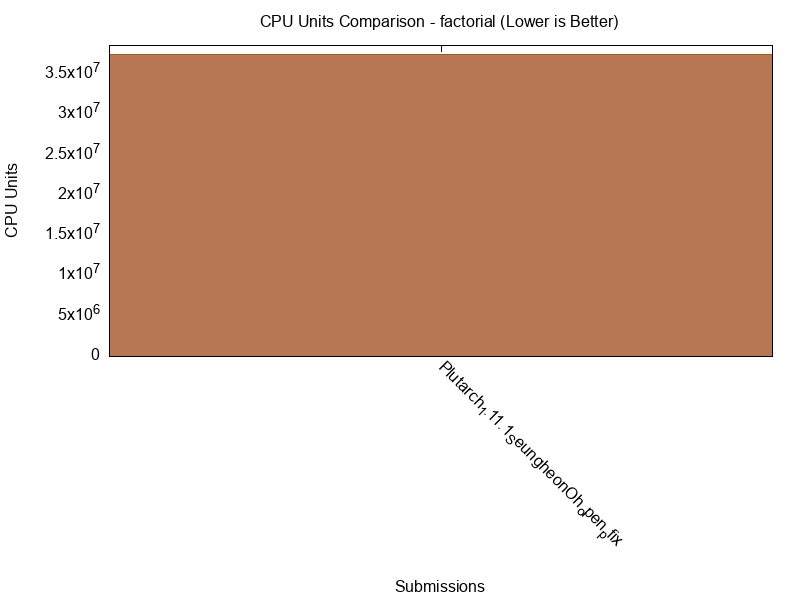
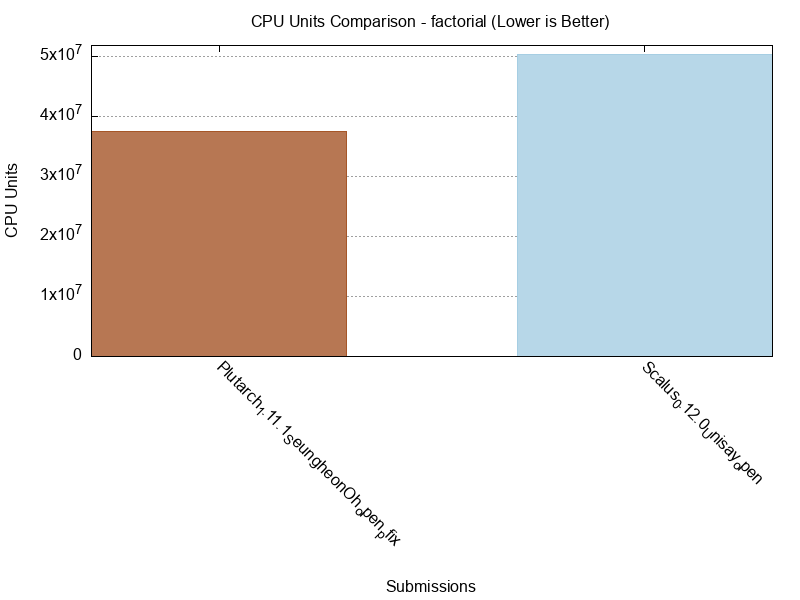
docs(reports): update HTML reports with Scalus factorial submissions
Update HTML performance reports to include the newly added Scalus factorial submissions. The factorial benchmark now shows 2 submissions each in base and open modes.

Updated report pages reflect the new submissions with regenerated charts and indices across all benchmark reports.

diff --git a/report/base/index.html b/report/base/index.html
@@ -294,7 +294,7 @@
     
 
     <div class="timestamp">
-        Generated on: 2025-10-07 15:24:50 CEST
+        Generated on: 2025-10-07 15:44:42 CEST
     </div>
     
     <!-- Benchmark Summary Table -->
@@ -315,7 +315,7 @@
                     </div>
                     <div class="count">
                         
-                            (2 submissions)
+                            (4 submissions)
                         
                     </div>
                 </div>
@@ -376,6 +376,48 @@
                                 </td>
                                 <td class="numeric script-value">40</td>
                                 <td class="numeric term-value">33</td>
+                            </tr>
+                            
+                            <tr data-cpu="44601975" data-memory="184790" data-script="58" data-term="57">
+                                <td>Scalus</td>
+                                <td>0.12.0</td>
+                                <td>Unisay</td>
+                                <td>2025-10-07</td>
+                                <td class="numeric">
+                                    <span class="tooltip">
+                                        <span class="cpu-value">44.60M</span>
+                                        <span class="tooltiptext">44601975</span>
+                                    </span>
+                                </td>
+                                <td class="numeric">
+                                    <span class="tooltip">
+                                        <span class="memory-value">184.79K</span>
+                                        <span class="tooltiptext">184790</span>
+                                    </span>
+                                </td>
+                                <td class="numeric script-value">58</td>
+                                <td class="numeric term-value">57</td>
+                            </tr>
+                            
+                            <tr data-cpu="50249063" data-memory="214106" data-script="81" data-term="82">
+                                <td>Scalus</td>
+                                <td>0.12.0</td>
+                                <td>Unisay</td>
+                                <td>2025-10-07</td>
+                                <td class="numeric">
+                                    <span class="tooltip">
+                                        <span class="cpu-value">50.25M</span>
+                                        <span class="tooltiptext">50249063</span>
+                                    </span>
+                                </td>
+                                <td class="numeric">
+                                    <span class="tooltip">
+                                        <span class="memory-value">214.11K</span>
+                                        <span class="tooltiptext">214106</span>
+                                    </span>
+                                </td>
+                                <td class="numeric script-value">81</td>
+                                <td class="numeric term-value">82</td>
                             </tr>
                             
                         </tbody>

diff --git a/report/open/index.html b/report/open/index.html
@@ -294,7 +294,7 @@
     
 
     <div class="timestamp">
-        Generated on: 2025-10-07 15:25:02 CEST
+        Generated on: 2025-10-07 15:44:56 CEST
     </div>
     
     <!-- Benchmark Summary Table -->
@@ -315,7 +315,7 @@
                     </div>
                     <div class="count">
                         
-                            (2 submissions)
+                            (4 submissions)
                         
                     </div>
                 </div>
@@ -376,6 +376,48 @@
                                 </td>
                                 <td class="numeric script-value">40</td>
                                 <td class="numeric term-value">33</td>
+                            </tr>
+                            
+                            <tr data-cpu="44601975" data-memory="184790" data-script="58" data-term="57">
+                                <td>Scalus</td>
+                                <td>0.12.0</td>
+                                <td>Unisay</td>
+                                <td>2025-10-07</td>
+                                <td class="numeric">
+                                    <span class="tooltip">
+                                        <span class="cpu-value">44.60M</span>
+                                        <span class="tooltiptext">44601975</span>
+                                    </span>
+                                </td>
+                                <td class="numeric">
+                                    <span class="tooltip">
+                                        <span class="memory-value">184.79K</span>
+                                        <span class="tooltiptext">184790</span>
+                                    </span>
+                                </td>
+                                <td class="numeric script-value">58</td>
+                                <td class="numeric term-value">57</td>
+                            </tr>
+                            
+                            <tr data-cpu="50249063" data-memory="214106" data-script="81" data-term="82">
+                                <td>Scalus</td>
+                                <td>0.12.0</td>
+                                <td>Unisay</td>
+                                <td>2025-10-07</td>
+                                <td class="numeric">
+                                    <span class="tooltip">
+                                        <span class="cpu-value">50.25M</span>
+                                        <span class="tooltiptext">50249063</span>
+                                    </span>
+                                </td>
+                                <td class="numeric">
+                                    <span class="tooltip">
+                                        <span class="memory-value">214.11K</span>
+                                        <span class="tooltiptext">214106</span>
+                                    </span>
+                                </td>
+                                <td class="numeric script-value">81</td>
+                                <td class="numeric term-value">82</td>
                             </tr>
                             
                         </tbody>

diff --git a/report/open/benchmarks/factorial.html b/report/open/benchmarks/factorial.html
@@ -206,7 +206,7 @@
     </div>
 
     <div class="timestamp">
-        Generated on: 2025-10-07 15:24:54 CEST
+        Generated on: 2025-10-07 15:44:46 CEST
     </div>
     
     <div class="benchmark-section">
@@ -260,6 +260,18 @@
                     <td class="numeric">33</td>
                     <td><a href="https://github.com/IntersectMBO/UPLC-CAPE/blob/main/submissions/factorial/Plutarch_1.11.1_SeungheonOh_open_pfix/source/README.md" target="_blank" rel="noopener">📁</a></td>
                     <td><a href="https://github.com/IntersectMBO/UPLC-CAPE/blob/main/submissions/factorial/Plutarch_1.11.1_SeungheonOh_open_pfix/factorial.uplc" target="_blank" rel="noopener">🔗</a></td>
+                </tr>
+                <tr>
+                    <td>2025-10-07T13:43:55Z</td>
+                    <td>Scalus</td>
+                    <td>0.12.0</td>
+                    <td>Unisay</td>
+                    <td class="numeric">50249063</td>
+                    <td class="numeric">214106</td>
+                    <td class="numeric">81</td>
+                    <td class="numeric">82</td>
+                    <td><a href="https://github.com/IntersectMBO/UPLC-CAPE/blob/main/submissions/factorial/Scalus_0.12.0_Unisay_open/source/README.md" target="_blank" rel="noopener">📁</a></td>
+                    <td><a href="https://github.com/IntersectMBO/UPLC-CAPE/blob/main/submissions/factorial/Scalus_0.12.0_Unisay_open/factorial.uplc" target="_blank" rel="noopener">🔗</a></td>
                 </tr>
             </tbody>
         </table>

diff --git a/report/base/benchmarks/factorial.html b/report/base/benchmarks/factorial.html
@@ -206,7 +206,7 @@
     </div>
 
     <div class="timestamp">
-        Generated on: 2025-10-07 15:24:45 CEST
+        Generated on: 2025-10-07 15:44:35 CEST
     </div>
     
     <div class="benchmark-section">
@@ -260,6 +260,18 @@
                     <td class="numeric">27</td>
                     <td><a href="https://github.com/IntersectMBO/UPLC-CAPE/blob/main/submissions/factorial/Plinth_1.53.0.0_Unisay_base/source/README.md" target="_blank" rel="noopener">📁</a></td>
                     <td><a href="https://github.com/IntersectMBO/UPLC-CAPE/blob/main/submissions/factorial/Plinth_1.53.0.0_Unisay_base/factorial.uplc" target="_blank" rel="noopener">🔗</a></td>
+                </tr>
+                <tr>
+                    <td>2025-10-07T13:43:42Z</td>
+                    <td>Scalus</td>
+                    <td>0.12.0</td>
+                    <td>Unisay</td>
+                    <td class="numeric">44601975</td>
+                    <td class="numeric">184790</td>
+                    <td class="numeric">58</td>
+                    <td class="numeric">57</td>
+                    <td><a href="https://github.com/IntersectMBO/UPLC-CAPE/blob/main/submissions/factorial/Scalus_0.12.0_Unisay_base/source/README.md" target="_blank" rel="noopener">📁</a></td>
+                    <td><a href="https://github.com/IntersectMBO/UPLC-CAPE/blob/main/submissions/factorial/Scalus_0.12.0_Unisay_base/factorial.uplc" target="_blank" rel="noopener">🔗</a></td>
                 </tr>
             </tbody>
         </table>

diff --git a/report/index.html b/report/index.html
@@ -221,7 +221,7 @@
     </div>
 
     <div class="timestamp">
-        Generated on: 2025-10-07 15:25:02 CEST
+        Generated on: 2025-10-07 15:44:57 CEST
     </div>
 
     <div class="mode-section">
@@ -283,11 +283,11 @@
                 <div class="benchmark-links">
                     <a href="base/benchmarks/factorial.html" class="benchmark-link base">
                         📊 Base Mode
-                        <span class="submission-count">1 submissions</span>
+                        <span class="submission-count">2 submissions</span>
                     </a>
                     <a href="open/benchmarks/factorial.html" class="benchmark-link open">
                         🚀 Open Mode
-                        <span class="submission-count">1 submissions</span>
+                        <span class="submission-count">2 submissions</span>
                     </a>
                 </div>
             </div>

diff --git a/report/base/benchmarks/fibonacci.html b/report/base/benchmarks/fibonacci.html
@@ -206,7 +206,7 @@
     </div>
 
     <div class="timestamp">
-        Generated on: 2025-10-07 15:24:48 CEST
+        Generated on: 2025-10-07 15:44:40 CEST
     </div>
     
     <div class="benchmark-section">

diff --git a/report/open/benchmarks/fibonacci.html b/report/open/benchmarks/fibonacci.html
@@ -206,7 +206,7 @@
     </div>
 
     <div class="timestamp">
-        Generated on: 2025-10-07 15:24:57 CEST
+        Generated on: 2025-10-07 15:44:50 CEST
     </div>
     
     <div class="benchmark-section">

diff --git a/report/open/benchmarks/two-party-escrow.html b/report/open/benchmarks/two-party-escrow.html
@@ -206,7 +206,7 @@
     </div>
 
     <div class="timestamp">
-        Generated on: 2025-10-07 15:25:00 CEST
+        Generated on: 2025-10-07 15:44:55 CEST
     </div>
     
     <div class="benchmark-section">
